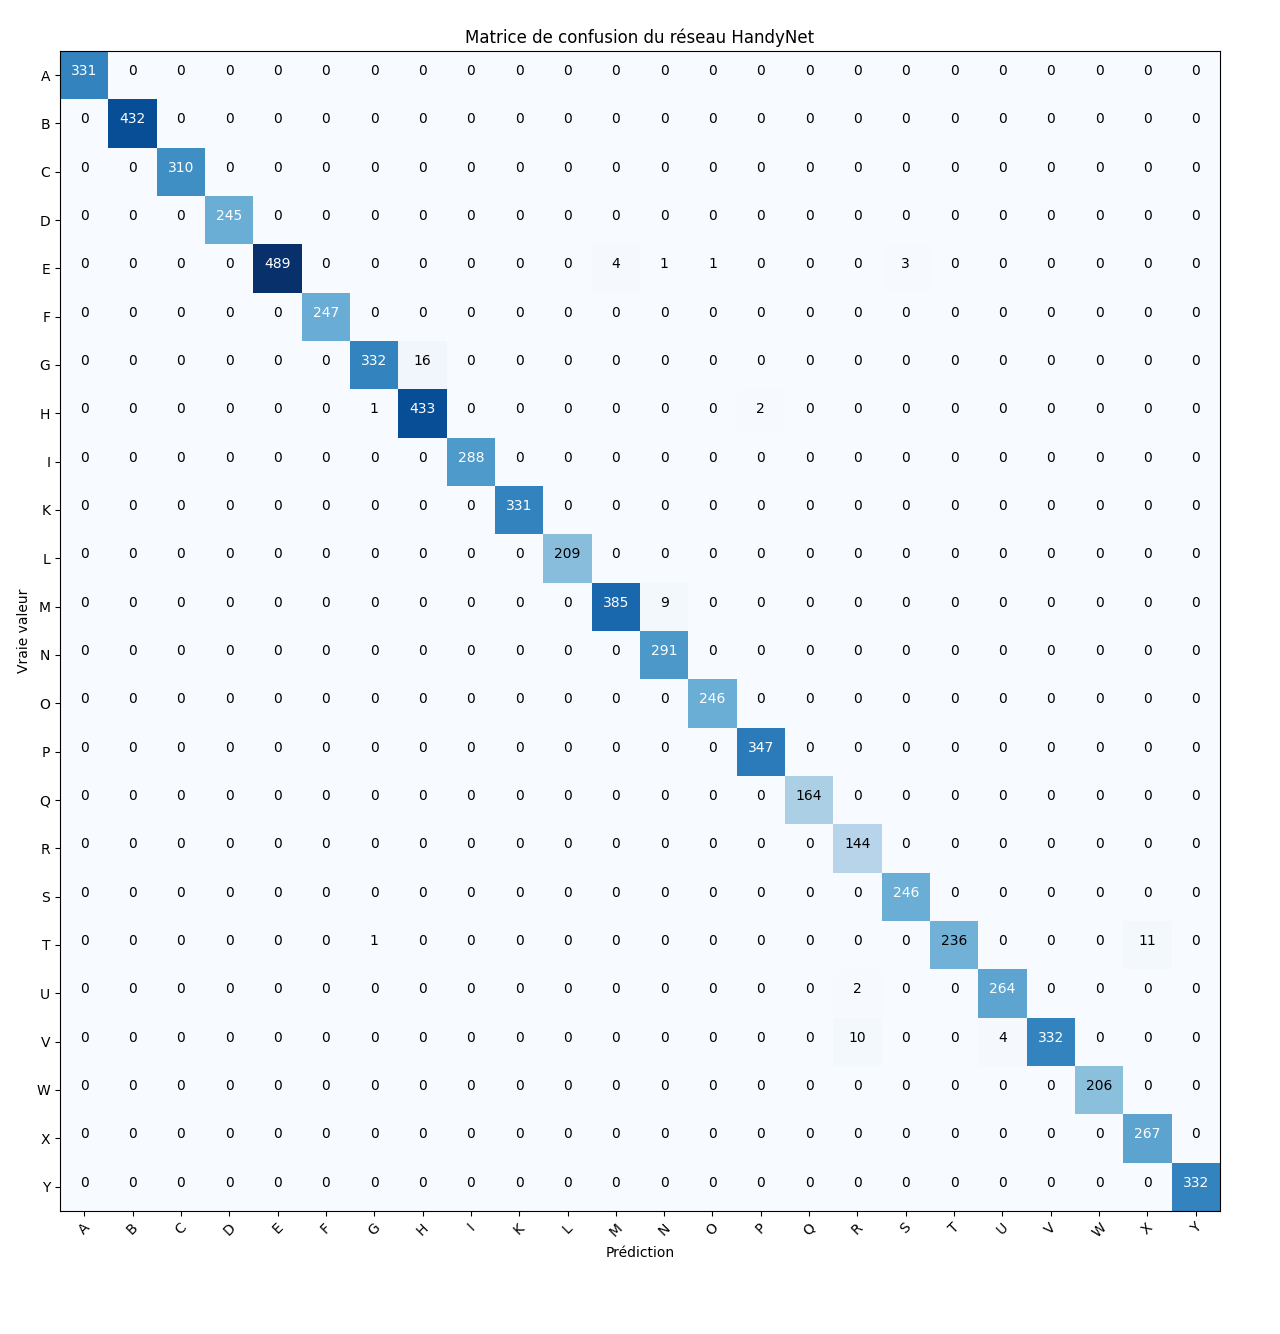
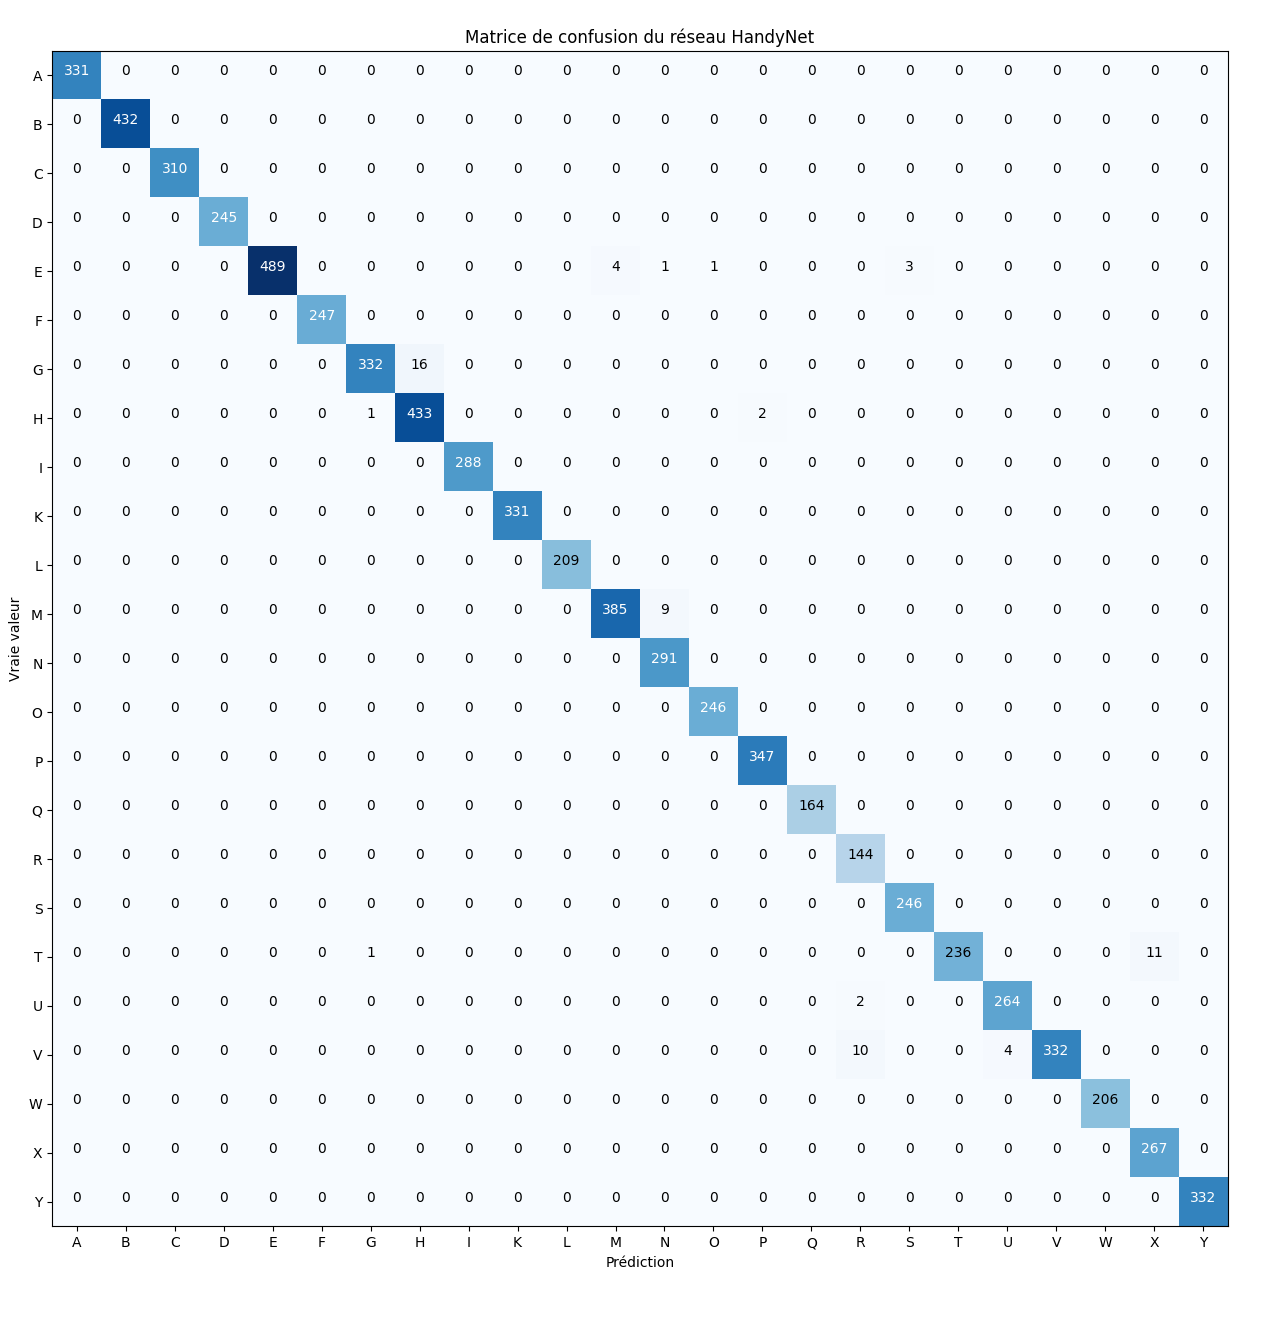
better confusion matrix

diff --git a/confusion_matrix.py b/confusion_matrix.py
@@ -12,7 +12,7 @@ def show_confusion_matrix(cm, target_names, title, save_path=None):
   ax.imshow(cm, interpolation='nearest', cmap=plt.get_cmap('Blues'))
 
   tick_marks = np.arange(len(target_names))
-  plt.xticks(tick_marks, target_names, rotation=45)
+  plt.xticks(tick_marks, target_names)
   plt.yticks(tick_marks, target_names)
 
   thresh = cm.max() / 2
